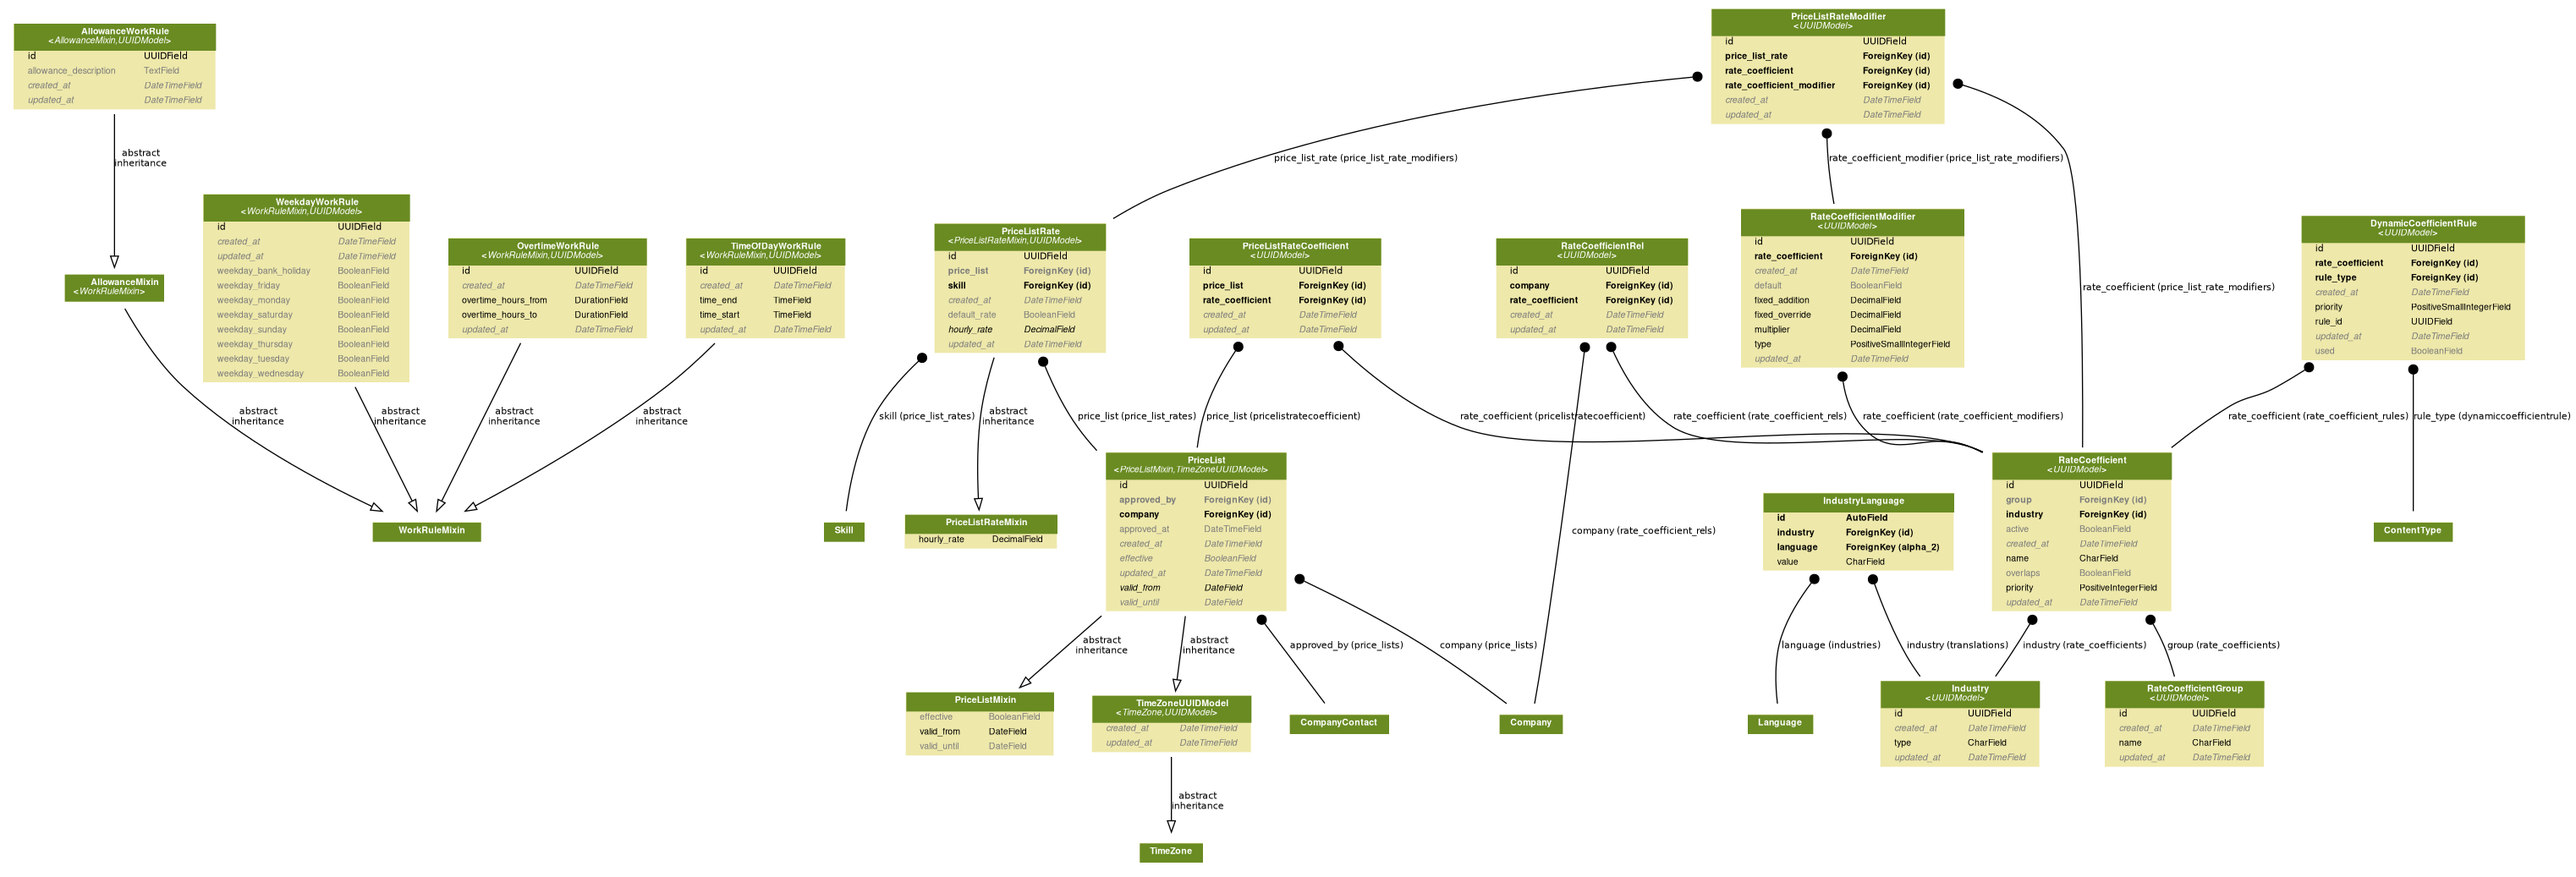
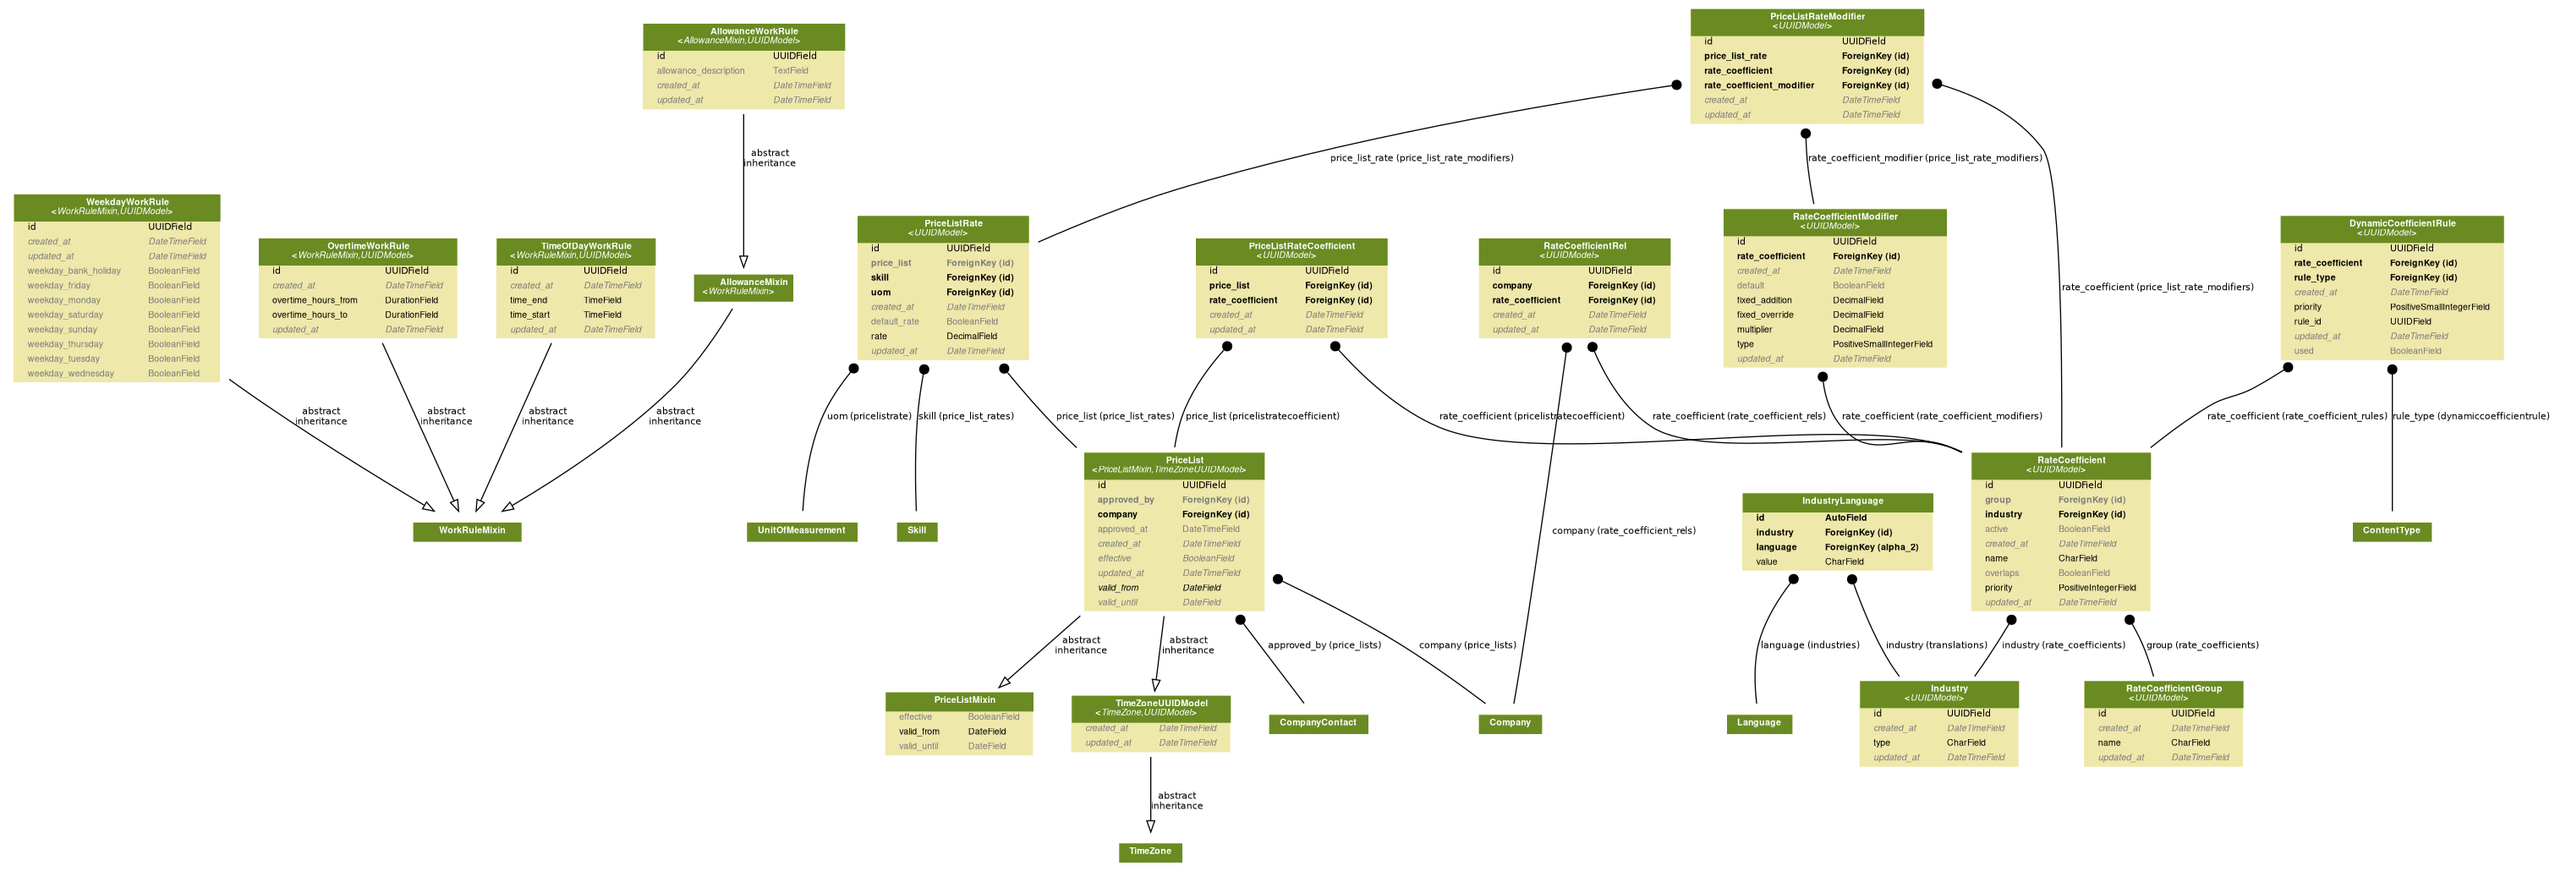
RV-1036 changes to pricing models

diff --git a/r3sourcer/apps/pricing/models/models.py b/r3sourcer/apps/pricing/models/models.py
@@ -36,19 +36,6 @@ class PriceListMixin(models.Model):
         abstract = True
 
 
-class PriceListRateMixin(models.Model):
-
-    hourly_rate = models.DecimalField(
-        decimal_places=2,
-        max_digits=16,
-        verbose_name=_("Hourly Rate"),
-        default=0.00
-    )
-
-    class Meta:
-        abstract = True
-
-
 class Industry(UUIDModel):
 
     type = models.CharField(
@@ -261,7 +248,7 @@ class PriceList(PriceListMixin, TimeZoneUUIDModel):
         ).values_list('longitude', 'latitude').get()
 
 
-class PriceListRate(PriceListRateMixin, UUIDModel):
+class PriceListRate(UUIDModel):
 
     price_list = models.ForeignKey(
         PriceList,
@@ -278,6 +265,13 @@ class PriceListRate(PriceListRateMixin, UUIDModel):
         verbose_name=_('Skill'),
     )
 
+    rate = models.DecimalField(
+        decimal_places=2,
+        max_digits=16,
+        verbose_name=_("Rate"),
+        default=0.00
+    )
+
     uom = models.ForeignKey(
         UnitOfMeasurement,
         verbose_name=_("Unit of measurement"),
@@ -292,7 +286,7 @@ class PriceListRate(PriceListRateMixin, UUIDModel):
     class Meta:
         verbose_name = _('Price List Rate')
         verbose_name_plural = _('Price List Rates')
-        unique_together = ('price_list', 'skill', 'hourly_rate')
+        unique_together = ('price_list', 'skill', 'uom', 'rate')
 
     @classmethod
     def set_default_rate(cls, sender, instance, created, **kwargs):
@@ -301,20 +295,22 @@ class PriceListRate(PriceListRateMixin, UUIDModel):
             instance.save()
 
     def save(self, *args, **kwargs):
-        if not self.hourly_rate:
-            self.hourly_rate = self.skill.price_list_default_rate
+        skill_rate_range = self.skill.skill_rate_ranges.filter(uom=self.uom).first()
+        if skill_rate_range:
+            if not self.rate:
+                self.rate = skill_rate_range.price_list_default_rate
 
-        if self.skill.price_list_lower_rate_limit and self.hourly_rate < self.skill.price_list_lower_rate_limit:
-            raise ValidationError(_('Hourly rate cannot be lower than {limit}').format(
-                limit=self.skill.price_list_lower_rate_limit
-            ))
+            if skill_rate_range.price_list_lower_rate_limit and self.rate < skill_rate_range.price_list_lower_rate_limit:
+                raise ValidationError(_('Hourly rate cannot be lower than {limit}').format(
+                    limit=skill_rate_range.price_list_lower_rate_limit
+                ))
 
-        if self.skill.price_list_upper_rate_limit and self.hourly_rate > self.skill.price_list_upper_rate_limit:
-            raise ValidationError(_('Hourly rate cannot be upper than {limit}').format(
-                limit=self.skill.price_list_upper_rate_limit
-            ))
+            if skill_rate_range.price_list_upper_rate_limit and self.rate > skill_rate_range.price_list_upper_rate_limit:
+                raise ValidationError(_('Hourly rate cannot be upper than {limit}').format(
+                    limit=skill_rate_range.price_list_upper_rate_limit
+                ))
 
-        super(PriceListRate, self).save(*args, **kwargs)
+        super().save(*args, **kwargs)
 
         if self.default_rate:
             default_rates = self.skill.price_list_rates.filter(default_rate=True).exclude(pk=self.pk)
@@ -322,7 +318,7 @@ class PriceListRate(PriceListRateMixin, UUIDModel):
                 default_rates.update(default_rate=False)
 
     def __str__(self):
-        return _('{}: ${}/h').format(str(self.skill), str(self.hourly_rate))
+        return _('{}: ${}/h').format(str(self.skill), str(self.rate))
 
 
 class PriceListRateCoefficient(UUIDModel):
@@ -487,7 +483,7 @@ class PriceListRateModifier(UUIDModel):
 
 
 __all__ = [
-    'PriceListMixin', 'PriceListRateMixin', 'Industry', 'RateCoefficientGroup',
+    'PriceListMixin', 'Industry', 'RateCoefficientGroup',
     'RateCoefficient', 'RateCoefficientRel', 'PriceList', 'PriceListRate',
     'PriceListRateCoefficient', 'RateCoefficientModifier',
     'DynamicCoefficientRule', 'PriceListRateModifier', 'IndustryLanguage'

diff --git a/r3sourcer/apps/pricing/migrations/0023_add_rate_field.py b/r3sourcer/apps/pricing/migrations/0023_add_rate_field.py
@@ -1,0 +1,34 @@
+# -*- coding: utf-8 -*-
+# Generated by Django 1.11.29 on 2021-01-22 18:43
+from __future__ import unicode_literals
+
+from django.db import migrations, models
+
+
+class Migration(migrations.Migration):
+
+    def set_default_uom(apps, schema_editor):
+        UnitOfMeasurement = apps.get_model("core", "UnitOfMeasurement")
+        PriceListRate = apps.get_model("pricing", "PriceListRate")
+        default_uom = UnitOfMeasurement.objects.get(default=True)
+        PriceListRate.objects.all().update(uom=default_uom)
+
+    dependencies = [
+        ('core', '0142_auto_20210109_1110'),
+        ('skills', '0023_skill_rate_ranges'),
+        ('pricing', '0022_pricelistrate_uom'),
+    ]
+
+    operations = [
+        migrations.RenameField('pricelistrate', 'hourly_rate', 'rate'),
+        migrations.AlterField(
+            model_name='pricelistrate',
+            name='rate',
+            field=models.DecimalField(decimal_places=2, default=0.0, max_digits=16, verbose_name='Rate'),
+        ),
+        migrations.AlterUniqueTogether(
+            name='pricelistrate',
+            unique_together=set([('price_list', 'skill', 'uom', 'rate')]),
+        ),
+        migrations.RunPython(set_default_uom),
+    ]

diff --git a/r3sourcer/apps/core/fields.py b/r3sourcer/apps/core/fields.py
@@ -1,3 +1,5 @@
+from django.db import models
+
 
 class ContactLookupField(object):
     """Virtual field used to lookup contact model fields"""
